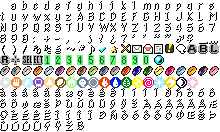
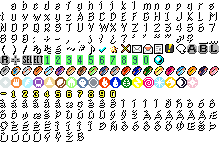
Damage animation

diff --git a/PMDMMOc/src/com/darkxell/client/renderers/TextRenderer.java b/PMDMMOc/src/com/darkxell/client/renderers/TextRenderer.java
@@ -166,7 +166,18 @@ public class TextRenderer {
 		type_14("<type-14>", 154, 11),
 		type_15("<type-15>", 155, 11),
 		type_16("<type-16>", 156, 11),
-		type_17("<type-17>", 157, 11);
+		type_17("<type-17>", 157, 11),
+		minusd(null, 160, 7),
+		num1d(null, 161, 7),
+		num2d(null, 162, 7),
+		num3d(null, 163, 7),
+		num4d(null, 164, 7),
+		num5d(null, 165, 7),
+		num6d(null, 166, 7),
+		num7d(null, 167, 7),
+		num8d(null, 168, 7),
+		num9d(null, 169, 7),
+		num0d(null, 170, 7);
 
 		public static PMDChar find(String value) {
 			for (PMDChar c : values())
@@ -201,14 +212,28 @@ public class TextRenderer {
 	public static void load() {
 	}
 
+	private HashMap<PMDChar, PMDChar> dungeonChars;
 	private HashMap<PMDChar, BufferedImage> sprites;
 
 	private TextRenderer() {
-		this.sprites = new HashMap<TextRenderer.PMDChar, BufferedImage>();
+		this.sprites = new HashMap<PMDChar, BufferedImage>();
+		this.dungeonChars = new HashMap<PMDChar, PMDChar>();
 		BufferedImage source = Res.getBase("resources/hud/font.png");
 		for (PMDChar c : PMDChar.values())
 			this.sprites.put(c, Res.createimage(source, c.id % GRID_COLS * GRID_WIDTH,
 					(c.id - c.id % GRID_COLS) / GRID_COLS * GRID_HEIGHT, GRID_WIDTH, GRID_HEIGHT));
+
+		this.dungeonChars.put(PMDChar.minus, PMDChar.minusd);
+		this.dungeonChars.put(PMDChar.num1, PMDChar.num1d);
+		this.dungeonChars.put(PMDChar.num2, PMDChar.num2d);
+		this.dungeonChars.put(PMDChar.num3, PMDChar.num3d);
+		this.dungeonChars.put(PMDChar.num4, PMDChar.num4d);
+		this.dungeonChars.put(PMDChar.num5, PMDChar.num5d);
+		this.dungeonChars.put(PMDChar.num6, PMDChar.num6d);
+		this.dungeonChars.put(PMDChar.num7, PMDChar.num7d);
+		this.dungeonChars.put(PMDChar.num8, PMDChar.num8d);
+		this.dungeonChars.put(PMDChar.num9, PMDChar.num9d);
+		this.dungeonChars.put(PMDChar.num0, PMDChar.num0d);
 	}
 
 	/**
@@ -254,11 +279,21 @@ public class TextRenderer {
 		this.render(g, message.toString(), x, y);
 	}
 
+	public void render(Graphics2D g, String text, int x, int y)
+	{
+		this.render(g, text, x, y, false);
+	}
+
 	/** Renders the input text at the topright x, y coordinates. */
-	public void render(Graphics2D g, String text, int x, int y) {
+	public void render(Graphics2D g, String text, int x, int y, boolean dungeonHUD) {
 		ArrayList<PMDChar> chars = this.decode(text);
+		ArrayList<PMDChar> toprint = new ArrayList<TextRenderer.PMDChar>();
+		if (dungeonHUD) for (PMDChar c : chars)
+			if (this.dungeonChars.containsKey(c)) toprint.add(this.dungeonChars.get(c));
+			else toprint.add(c);
+		else toprint.addAll(chars);
 		int w = 0;
-		for (PMDChar c : chars) {
+		for (PMDChar c : toprint) {
 			g.drawImage(this.sprites.get(c), x + w, y, null);
 			if (c == PMDChar.tabulation)
 				w += this.tabWidth(w);

diff --git a/PMDMMOc/src/com/darkxell/client/resources/images/PokemonSprite.java b/PMDMMOc/src/com/darkxell/client/resources/images/PokemonSprite.java
@@ -106,6 +106,12 @@ public class PokemonSprite {
 			System.err.println("Pokemon " + this.toString() + "in not in a valid state! id: " + state);
 			break;
 		}
+		
+		if (this.healthCounter > 0)
+			--this.healthCounter;
+		if (this.healthCounter == 0) {
+			this.healthChange = 0;
+		}
 	}
 
 	public BufferedImage getCurrentSprite() {
@@ -169,8 +175,11 @@ public class PokemonSprite {
 	public static final byte STATE_EATING = 10;
 
 	public static final int FRAMELENGTH = 10;
+	public static final int HEALTHLENGTH = 60;
 
 	private int counter = 0;
+	private int healthChange = 0;
+	private int healthCounter = 0;
 	private int statecounter = 0;
 
 	public byte getState() {
@@ -181,8 +190,21 @@ public class PokemonSprite {
 		return this.facing;
 	}
 
+	public int getHealthChange() {
+		return this.healthChange;
+	}
+
+	public int getHealthPos() {
+		return (HEALTHLENGTH - this.healthCounter) / 4;
+	}
+
 	public void setFacingDirection(byte dir) {
 		this.facing = dir;
+	}
+	
+	public void setHealthChange(int healthChange) {
+		this.healthChange = healthChange;
+		this.healthCounter = HEALTHLENGTH;
 	}
 
 }

diff --git a/PMDMMOc/src/com/darkxell/client/state/dungeon/DungeonState.java b/PMDMMOc/src/com/darkxell/client/state/dungeon/DungeonState.java
@@ -48,7 +48,7 @@ public class DungeonState extends AbstractState
 	public DungeonState()
 	{
 		this.floorRenderer = new FloorRenderer(DungeonPersistance.floor);
-		DungeonPersistance.player = new Player(0, PokemonRegistry.find((int) (Math.random() * 386)).generate(new Random(), 10));
+		DungeonPersistance.player = new Player(0, PokemonRegistry.find((int) (Math.random() * 386)).generate(new Random(), 1));
 		Point p = DungeonPersistance.floor.getTeamSpawn();
 		DungeonPersistance.floor.tileAt(p.x, p.y).setPokemon(DungeonPersistance.player.getDungeonPokemon());
 

diff --git a/PMDMMOc/src/com/darkxell/client/mechanics/MoveEventProcessor.java b/PMDMMOc/src/com/darkxell/client/mechanics/MoveEventProcessor.java
@@ -17,6 +17,7 @@ public final class MoveEventProcessor
 	static void processDamageEvent(DamageDealtEvent event)
 	{
 		DungeonPokemonRenderer.instance.getSprite(event.target).setState(PokemonSprite.STATE_HURT);
+		DungeonPokemonRenderer.instance.getSprite(event.target).setHealthChange(-event.damage);
 		DungeonPersistance.dungeonState.setSubstate(new DelayState(DungeonPersistance.dungeonState, PokemonSprite.FRAMELENGTH));
 		DungeonEventProcessor.processPending = false;
 	}

diff --git a/PMDMMOc/src/com/darkxell/client/state/FreezoneExploreState.java b/PMDMMOc/src/com/darkxell/client/state/FreezoneExploreState.java
@@ -34,7 +34,7 @@ public class FreezoneExploreState extends AbstractState {
 	 * have a hight CPU drain. It also makes the game really ugly, it's a debug
 	 * mode...
 	 */
-	static boolean debugdisplaymode = true;
+	static boolean debugdisplaymode = false;
 
 	@Override
 	public void onKeyPressed(short key) {
